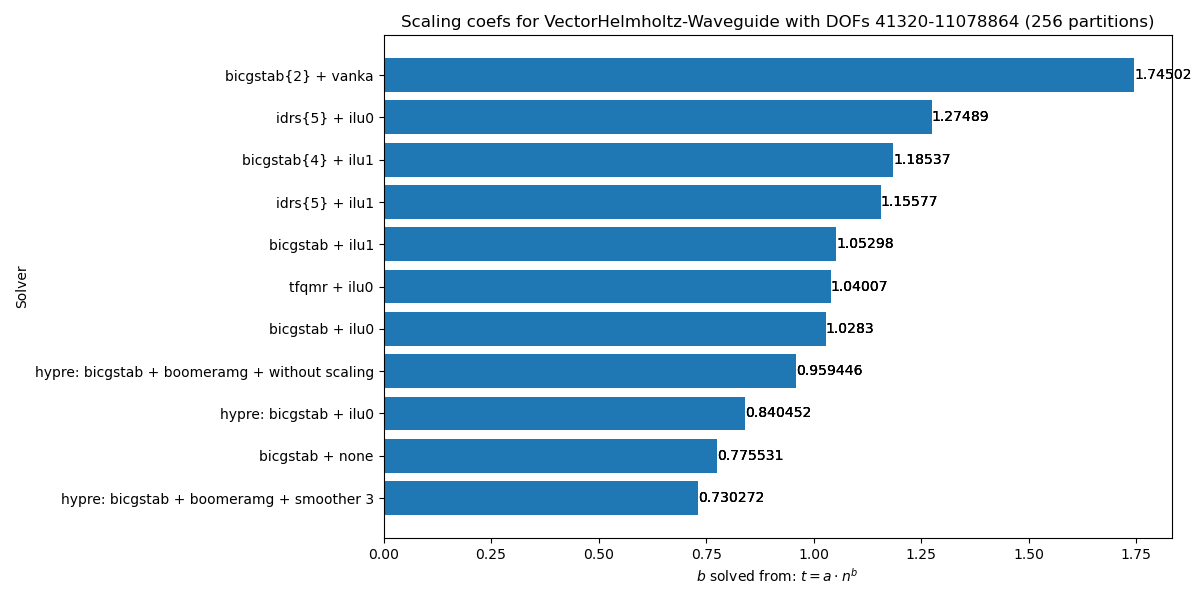
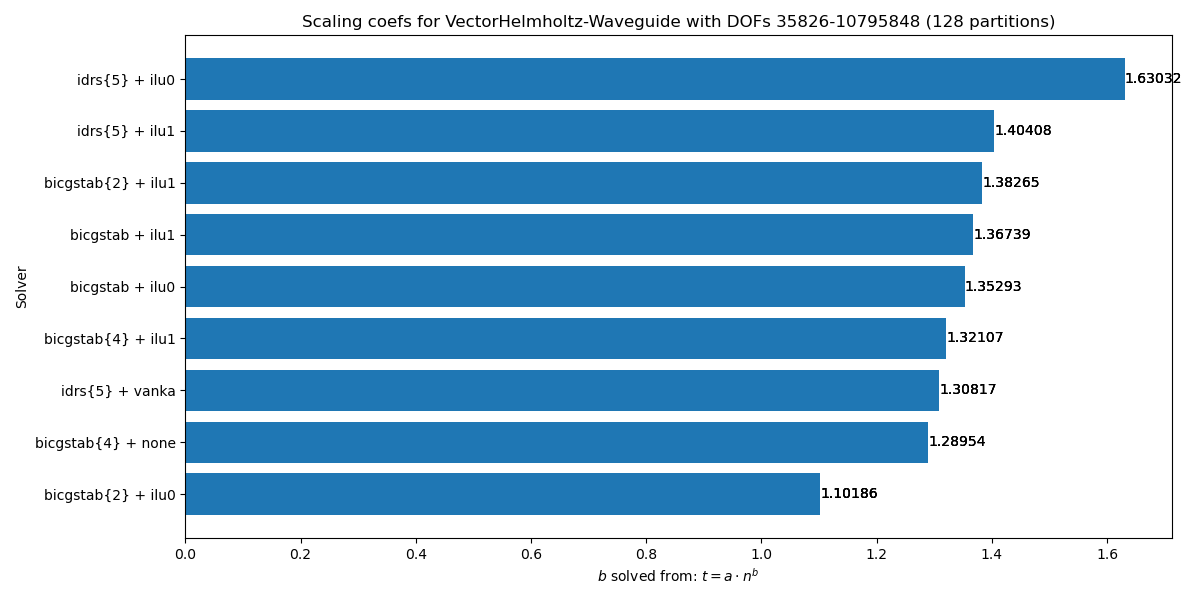
Analysis for vectorial Helmholtz problem(s) added

diff --git a/results/VectorHelmholtz-Waveguide/README.md b/results/VectorHelmholtz-Waveguide/README.md
@@ -1,5 +1,27 @@
-# Helmholtz equation on a shoebox geometry
+# Vectorial Helmholtz equation on a "shoebox" geometry
 
 ![Problem Visualization](https://github.com/ElmerCSC/elmer-linsys/blob/main/results/VectorHelmholtz-Waveguide/vectorHelmholtz_waveguide.png?raw=true)
 
+## Problem description
+
+Vectorial Helmholtz problem used used to solve time-harmonic Maxwell equations, which arise in many practical applications. A simple example that can be used for benchmarking purposes is having the waves, within a simple "shoebox". This is technically a trivial example case as it could be solved analytically. Nonetheless same basic properties associated with other VectorHelmholtz cases can be found in the formed characteristic matrix. Namely, the characteristic matrix is not positive definite (and most likely not positive semi-definite), which narrows down the set of usable solvers. For those interested, an example of the sparsity structure for a characteristic matrix is visualized below.
+
 ![Sparsity Structure](https://github.com/ElmerCSC/elmer-linsys/blob/main/results/VectorHelmholtz-Waveguide/sparsity_structure.png?raw=true)
+
+## Results
+
+The benchmarks with the "shoebox" geometry were done with number of degrees of freedom ranging from around 40 000 to around 12 000 000. Both a single Mahti node (128 partitions) and 4 Mahti nodes (512 partitions) were used. The runtimes can be found from picture files "runtimes_ML*.png". Runtimes for the smallest and largest runs on a single Mahti node are visualized below.
+
+![Runtimes small](https://github.com/ElmerCSC/elmer-linsys/blob/main/results/VectorHelmholtz-Waveguide/runtimes_ML1.png?raw=true)
+![Runtimes large](https://github.com/ElmerCSC/elmer-linsys/blob/main/results/VectorHelmholtz-Waveguide/runtimes_ML3.png?raw=true)
+
+The variability between the results is relatively small. Still, when looking at the scalability of the solvers we can see some quite major differences. The scaling coefficients for both the single node and 4 node runs are plotted below.
+
+![Scalability single node](https://github.com/ElmerCSC/elmer-linsys/blob/main/results/VectorHelmholtz-Waveguide/scalability_bar_ML1-3.png?raw=true)
+![Scalability 4 nodes](https://github.com/ElmerCSC/elmer-linsys/blob/main/results/VectorHelmholtz-Waveguide/scalability_bar_ML2-4_P512.png?raw=true)
+
+## Conclusions
+
+It appears that the coefficient matrix formed for the problem is not positive semi-definite as AMG preconditioned solvers don't appear in the results. This cuts out most of the Hypre library implemented solvers. Still even the ones using ILU preconditioner seem to not have converged, which is unusual. Unusual is also how the BiCGStab(l) solvers seem to have a better scalability than Ids(s) family of solvers. But as this doesn't translate into faster runtimes the "better" scalability is most likely a result of higher per iteration cost or perhaps the need to compute the transpose.
+
+Overall, purely based on runtimes the best solver choice would appear to be Elmer's implementation of Idr(s) with ILU(n) preconditioning, but for very large runs the scalability might end up being an issue.

diff --git a/results/VectorHelmholtz-BandpassFilterHexas/README.md b/results/VectorHelmholtz-BandpassFilterHexas/README.md
@@ -1,0 +1,20 @@
+# Vectorial Helmholtz equation on an structured bandpass filter
+
+![Problem Visualization](https://github.com/ElmerCSC/elmer-linsys/blob/main/results/VectorHelmholtz-BandpassFilterHexas/vectorHelmholtz-bandpassFilterHexas.png?raw=true)
+
+## Problem description
+
+A bandpass filter is a natural application of Vectorial Helmholtz in solving time-harmonic Maxwell equations. Thus, a simple example of it also makes for a very enlightening example for benchmarking. A very coarse mesh of the problem is visualized above. This is technically the same problem as described in "VectorHelmholtz-BandpassFilterTets", but with a structured mesh. Usually a structured mesh leads to better results than their unstructured counterparts, but in this case the convergence was far worse for most methods. Thus, it is hard to say definitely what type of coefficient matrix was formed. By nature of the vectorial Helmholtz problem the matrix won't be positive definite (and most likely not positive semi-definite), but in this case it also seems to not be invertible. For those interested, an example of the sparsity structure for a characteristic matrix is visualized below.
+
+![Sparsity Structure](https://github.com/ElmerCSC/elmer-linsys/blob/main/results/VectorHelmholtz-BandpassFilterHexas/sparsity_structure.png?raw=true)
+
+## Results
+
+The benchmarks were done on both a single Mahti node (128 partitions) and Mahti nodes (1024 partitions) with number of degrees of freedom ranging from around 500 000 to around 3 500 000. Unfortunately, this only constitutes two datapoints and thus isn't really enough for fitting a curve. When trying to create a finer mesh through mesh multiplication beyond the 3 500 000 degrees of freedom convergence suffered significantly.  The runtimes can be found from picture files "runtimes_ML*.png". Runtimes for the smallest and largest runs on a single Mahti node are visualized below.
+
+![Runtimes small](https://github.com/ElmerCSC/elmer-linsys/blob/main/results/VectorHelmholtz-BandpassFilterHexas/runtimes_ML1.png?raw=true)
+![Runtimes large](https://github.com/ElmerCSC/elmer-linsys/blob/main/results/VectorHelmholtz-BandpassFilterHexas/runtimes_ML2.png?raw=true)
+
+## Conclusions
+
+Overall, it seems that for some reason this benchmark didn't work as one would hope. Hence, drawing conclusions from it is somewhat moot, but if it had to be done one could conclude that the best choice for solver would be Elmer's implementation of Idr(s) without preconditioner. This solver performed the best in every run, but if the coefficient matrix were better behaved there might have been better options available.

diff --git a/results/VectorHelmholtz-BandpassFilterTets/README.md b/results/VectorHelmholtz-BandpassFilterTets/README.md
@@ -1,0 +1,9 @@
+# Vectorial Helmholtz equation on an unstructured bandpass filter
+
+![Problem Visualization](https://github.com/ElmerCSC/elmer-linsys/blob/main/results/VectorHelmholtz-BandpassFilterTets/vectorHelmholtz-bandpassFilter_a08.png?raw=true)
+
+## Problem description
+
+A bandpass filter is a natural application of Vectorial Helmholtz in solving time-harmonic Maxwell equations. Thus, a simple example of it also makes for a very enlightening example for benchmarking. A very coarse mesh of the problem is visualized above. As a vectorial Helmholz the formed coefficient matrix is not positive definite (and most likely not positive semi-definite). Likewise, as a vectorial Helmholtz problem the same analysis also applies here as in the case "VectorHelmholtz-Waveguide". Thus, as the results are very similar, the reader is referred there or can make their own conclusions based on the included plots. For those interested, an example of the sparsity structure for a characteristic matrix is visualized below.
+
+![Sparsity Structure](https://github.com/ElmerCSC/elmer-linsys/blob/main/results/VectorHelmholtz-BandpassFilterTets/sparsity_structure.png?raw=true)
